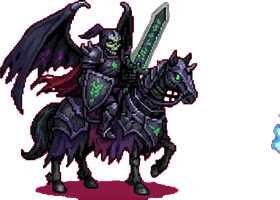
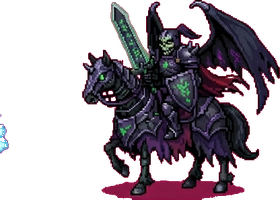
Fix dark rider: remove blue artifacts, flip, move bosses left
- Dark rider: removed blue/cyan artifacts on right side, flipped
- Dungeon boss position: right:30px → right:60px (more left)
- Restore right:30px after dungeon ends

diff --git a/game.html b/game.html
@@ -1464,7 +1464,7 @@ function startDungeon(difficulty) {
   const monsterName = document.getElementById('monsterName');
   if (monsterEl) { monsterEl.src = boss.sprite; monsterEl.style.width = '240px'; monsterEl.style.height = '240px'; }
   const mc = document.getElementById('monsterContainer');
-  if (mc) mc.style.bottom = '5px';
+  if (mc) { mc.style.bottom = '5px'; mc.style.right = '60px'; }
   if (monsterName) monsterName.textContent = boss.name;
   showFloatText(`⚔ ${boss.label} 던전 도전!`, boss.color);
   updateDungeonTimerDisplay();
@@ -1513,7 +1513,7 @@ function onDungeonBossKill() {
   G.dungeonActive = false;
   G.dungeonDifficulty = null;
   const mc = document.getElementById('monsterContainer');
-  if (mc) mc.style.bottom = '50px';
+  if (mc) { mc.style.bottom = '50px'; mc.style.right = '30px'; }
   updateTopBar();
   saveCloudGame();
   const overlay = document.getElementById('dungeonOverlay');
@@ -1534,7 +1534,7 @@ function failDungeon() {
   G.dungeonMaxHp = 0;
   G.dungeonTimer = 0;
   const mc = document.getElementById('monsterContainer');
-  if (mc) mc.style.bottom = '50px';
+  if (mc) { mc.style.bottom = '50px'; mc.style.right = '30px'; }
   showFloatText(wasTimeout ? '💀 시간 초과! 던전 실패...' : '🚪 던전에서 나왔습니다', wasTimeout ? '#e74c3c' : '#aaa');
   const overlay = document.getElementById('dungeonOverlay');
   if (overlay) overlay.remove();
